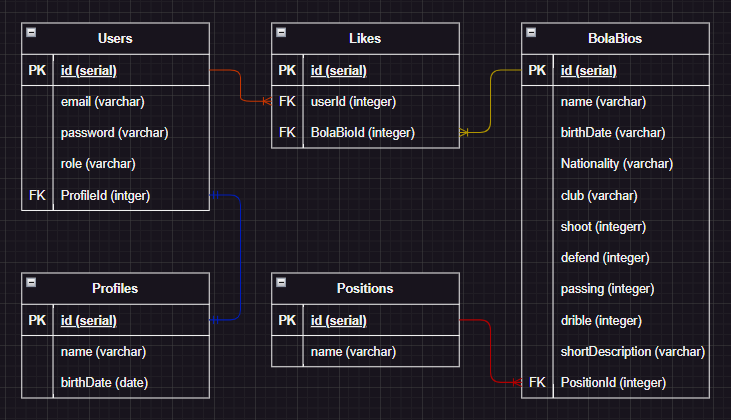
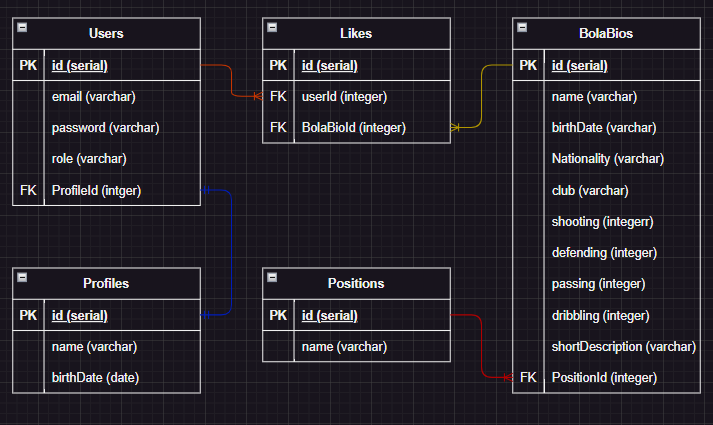
Update ERD dan Migration

Changed region(s): [[0.0, 0.031, 0.9874, 0.9595], [0.0, 0.5881, 0.6788, 0.9595]]

diff --git a/seeders/20231123020406-BolaBioSeed.js b/seeders/20231123020406-BolaBioSeed.js
@@ -1,8 +1,16 @@
 'use strict';
-
+const fs = require('fs')
 /** @type {import('sequelize-cli').Migration} */
 module.exports = {
-  async up (queryInterface, Sequelize) {
+  async up(queryInterface, Sequelize) {
+    let bolaBios = fs.readFileSync('./data/bolaBios.json')
+    bolaBios = JSON.parse(bolaBios)
+    bolaBios = bolaBios.map(bolaBio => {
+      delete bolaBio.id
+      bolaBio.createdAt = new Date();
+      bolaBio.updatedAt = new Date();
+      return bolaBio;
+    });
     /**
      * Add seed commands here.
      *
@@ -12,14 +20,16 @@ module.exports = {
      *   isBetaMember: false
      * }], {});
     */
+    await queryInterface.bulkInsert('BolaBios', bolaBios)
   },
 
-  async down (queryInterface, Sequelize) {
+  async down(queryInterface, Sequelize) {
     /**
      * Add commands to revert seed here.
      *
      * Example:
      * await queryInterface.bulkDelete('People', null, {});
      */
+    await queryInterface.bulkDelete('BolaBios', null, {})
   }
 };

diff --git a/migrations/20231123023623-add-column-to-BolaBios-defending.js b/migrations/20231123023623-add-column-to-BolaBios-defending.js
@@ -9,7 +9,7 @@ module.exports = {
      * Example:
      * await queryInterface.createTable('users', { id: Sequelize.INTEGER });
      */
-    queryInterface.addColumn('BolaBios', 'defend', {type: Sequelize.INTEGER})
+    queryInterface.addColumn('BolaBios', 'defending', {type: Sequelize.INTEGER})
   },
 
   async down (queryInterface, Sequelize) {
@@ -19,6 +19,6 @@ module.exports = {
      * Example:
      * await queryInterface.dropTable('users');
      */
-    queryInterface.removeColumn('BolaBios', 'defend', { /* query options */ });
+    queryInterface.removeColumn('BolaBios', 'defending', { /* query options */ });
   }
 };

diff --git a/migrations/20231123023240-add-column-to-BolaBios-shooting.js b/migrations/20231123023240-add-column-to-BolaBios-shooting.js
@@ -9,7 +9,7 @@ module.exports = {
      * Example:
      * await queryInterface.createTable('users', { id: Sequelize.INTEGER });
      */
-    queryInterface.addColumn('BolaBios', 'drible', {type: Sequelize.INTEGER})
+    queryInterface.addColumn('BolaBios', 'shooting', {type: Sequelize.INTEGER})
   },
 
   async down (queryInterface, Sequelize) {
@@ -19,6 +19,6 @@ module.exports = {
      * Example:
      * await queryInterface.dropTable('users');
      */
-    queryInterface.removeColumn('BolaBios', 'drible', { /* query options */ });
+    queryInterface.removeColumn('BolaBios', 'shooting', { /* query options */ });
   }
 };

diff --git a/migrations/20231123023907-add-column-to-BolaBios-dribbling.js b/migrations/20231123023907-add-column-to-BolaBios-dribbling.js
@@ -9,7 +9,7 @@ module.exports = {
      * Example:
      * await queryInterface.createTable('users', { id: Sequelize.INTEGER });
      */
-    queryInterface.addColumn('BolaBios', 'shoot', {type: Sequelize.INTEGER})
+    queryInterface.addColumn('BolaBios', 'dribbling', {type: Sequelize.INTEGER})
   },
 
   async down (queryInterface, Sequelize) {
@@ -19,6 +19,6 @@ module.exports = {
      * Example:
      * await queryInterface.dropTable('users');
      */
-    queryInterface.removeColumn('BolaBios', 'shoot', { /* query options */ });
+    queryInterface.removeColumn('BolaBios', 'dribbling', { /* query options */ });
   }
 };
